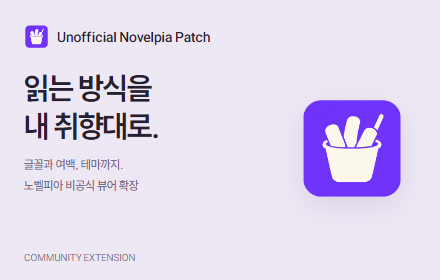
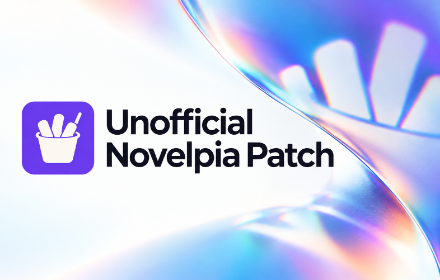
docs(store): 굴절 디자인의 프로모션 이미지 적용

diff --git a/docs/DEVELOPMENT.md b/docs/DEVELOPMENT.md
@@ -122,7 +122,15 @@ node scripts/store-assets.mjs
 
 완성된 이미지는 `store/assets/`, 촬영 원본과 버전 정보는 Git에서 제외된 `test-results/store-captures/`에 저장합니다. 임시 브라우저 프로필은 종료 시 정리합니다. 촬영용 프리젠테이션 글꼴은 동봉 파일로 응답하고, 다른 웹글꼴은 실제 로더를 사용합니다.
 
-스크린샷은 `01-reading.png`부터 `05-user-fonts.png`까지 다섯 장이며 각각 1280×800px입니다. 작은 홍보 이미지는 `promo-440x280.png`(440×280px), 아이콘은 `public/icons/icon128.png`를 사용합니다. `scripts/store-artwork.mjs`에서 소개 문구와 홍보 이미지 구성을 수정할 수 있습니다.
+스크린샷은 `01-reading.png`부터 `05-user-fonts.png`까지 다섯 장이며 각각 1280×800px입니다. `scripts/store-artwork.mjs`에서 스크린샷 바깥의 소개 문구와 프레임을 수정할 수 있습니다.
+
+작은 홍보 이미지는 `promo-440x280.png`(440×280px), 아이콘은 `public/icons/icon128.png`를 사용합니다. 홍보 이미지 원본은 `store/artwork/promo-refraction.png`입니다. 원본의 구도와 비율을 유지해 축소하며, 실제 확장 화면을 촬영한 스크린샷과는 별도의 그래픽입니다. 홍보 이미지만 다시 만들 때는 확장을 빌드하지 않고 다음 명령을 실행합니다.
+
+```sh
+node scripts/store-promo.mjs
+```
+
+홍보 이미지와 촬영 도구 변경만으로 확장 버전을 올리거나 스토어에 새 패키지를 제출하지 않습니다.
 
 촬영 후 글꼴·이미지 로딩, 잘린 화면, 제품명과 소개 내용이 실제 기능에 맞는지 확인하세요. 이미지 규격은 [Chrome 웹 스토어 등록 기준](https://developer.chrome.com/docs/webstore/cws-dashboard-listing)을 따릅니다.
 
